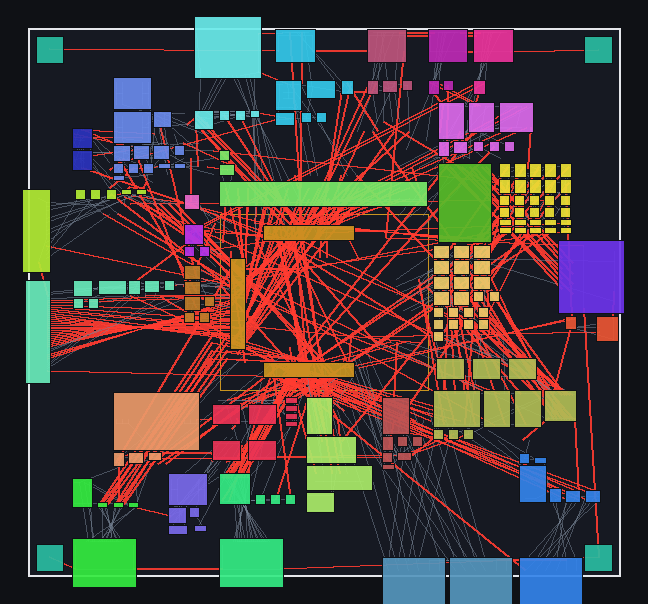
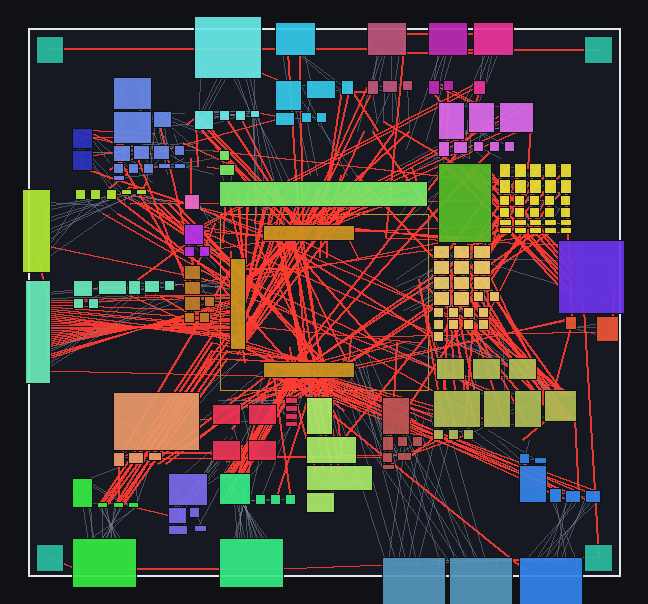
fix: USB-C mated INWARD — correct BOTH footprint mating-face AND 3D model + the gate
User caught (at an ANGLE — top-down hid it) that all 4 USB-C (J17001/J29001/J31001/
J32002) opened their cavity INBOARD. A full ultracode 2D-vs-3D angle audit of every
component confirmed the USB-C is the ONLY mismatch class; all other connectors +
components are correct. Two real defects, both fixed:

1. FOOTPRINT mating face: CONN_MATING_FACE["TYPE-C-31-M-12"] "-Y" -> "+Y". The 12 SMD
   signal contacts are the dense row at local -Y, so the mouth is OPPOSITE = +Y. With
   "-Y" the placer left the pads' mouth facing inboard on the N edge; "+Y" places the
   4 USB-C at rot 180 with the pad mouth toward the edge.
2. 3D MODEL: the EasyEDA .wrl was authored with its cavity 180 deg from its own
   footprint (cavity at the SMT-tail side). parts/TYPE-C-31-M-12/TYPE-C-31-M-12.kicad_mod
   model (rotate (xyz 0 0 0)) -> (xyz 0 0 180) aligns the model cavity with the
   footprint mouth; offset unchanged. ANGLED render confirms the cavity now faces
   off-board for all 4.

GATE fixes (LAW 4 — it MISSED this; make it correct, not softer):
 * connector_model_gate._tail_row_mouth: derive the tail row from EVERY pad (was
   _NUMERIC-only, which matched only the 4 shell legs and missed the 12 signal
   contacts named B8/A5/... — so it spuriously "agreed" with the wrong -Y). Now the
   densest y-row is the real contact row; mouth opposite -> correctly derives +Y.
 * bad-Z check: model rotate Z must be 0 OR 180 (axis-aligned; 180 = valid in-plane
[…]

diff --git a/schgen/verify/connector_model_gate.py b/schgen/verify/connector_model_gate.py
@@ -123,9 +123,16 @@ def _model_z(mod_path: Path) -> float | None:
 
 def _tail_row_mouth(mod_path: Path) -> str | None:
     """For a through-shell connector, the mouth direction implied by geometry:
-    the densest numeric-named pad row is the SMT contact tail row; the cable
-    enters OPPOSITE it. Returns '-Y'/'+Y' (page frame, +y DOWN) or None if the
-    pad layout is too symmetric to call (tail row at the footprint center)."""
+    the densest pad row is the SMT contact tail row; the cable enters OPPOSITE it.
+    Returns '-Y'/'+Y' (page frame, +y DOWN) or None if the pad layout is too
+    symmetric to call (tail row at the footprint center).
+
+    BUGFIX: previously this filtered to _NUMERIC pad names, which on a USB-C
+    (TYPE-C-31-M-12) matched ONLY the 4 shell THT legs ("1".."4") and MISSED the
+    12 signal contacts (named "B8","A5","A1B12",...). It therefore derived the tail
+    row from the legs and spuriously "agreed" with a WRONG CONN_MATING_FACE, so all
+    4 USB-C shipped opening INBOARD. Use EVERY pad: the densest y-row is the real
+    contact tail row regardless of naming, and the mouth is opposite it."""
     doc = sexpr.loads(mod_path.read_text())
     pads: list[tuple[str, float]] = []          # (name, y)
     all_y: list[float] = []
@@ -138,8 +145,7 @@ def _tail_row_mouth(mod_path: Path) -> str | None:
             continue
         y = float(at[2])
         all_y.append(y)
-        if _NUMERIC.fullmatch(name):
-            pads.append((name, y))
+        pads.append((name, y))     # ALL pads — the dense row is the contact tails
     if not pads or not all_y:
         return None
     rows = Counter(round(y, 1) for _, y in pads)
@@ -231,16 +237,26 @@ def check(model: PcbModel | None = None) -> ConnModelResult:
         mod_path = Path(mod_path)
         z = _model_z(mod_path)
 
-        # (1) non-zero model-Z flips the rendered opening vs the pads.
+        # (1) the model must be AXIS-ALIGNED with the footprint: rotate Z in
+        # {0, 180}. 0 = as-authored; 180 = a valid in-plane MOUTH FLIP that
+        # corrects a .wrl whose cavity was authored on the OPPOSITE end from the
+        # footprint's mating side (the EasyEDA TYPE-C-31-M-12 .wrl needed this —
+        # the old "must be 0" rule was a misdiagnosis that forbade the corrective
+        # 180 AND gave false confidence to a .wrl mis-authored at 0). A 90/270
+        # rotate makes the model PERPENDICULAR to the footprint (real error); a
+        # non-orthogonal rotate is conversion garbage. NOTE: the gate cannot render
+        # so it cannot fully confirm the model's opening — that is the render's job
+        # (LAW 5/6); the geometry cross-check (2) below confirms the FOOTPRINT pads.
         z_ok = True
         if z is None:
             res.missing_model.append(f"{ref} {mpn}: no (model ...rotate) node")
-        elif round(z) % 360 != 0:
+        elif round(z) % 180 != 0:
             z_ok = False
             res.bad_z.append(
                 f"{ref} {mpn} (value={value}): model rotate Z={z:g} deg "
-                f"(must be 0 mod 360) — rendered opening is flipped vs the "
-                f"footprint pads; zero the (model ...(rotate (xyz 0 0 Z))) node")
+                f"(must be 0 or 180 — axis-aligned with the footprint; 90/270 is "
+                f"perpendicular, non-orthogonal is garbage) — fix the "
+                f"(model ...(rotate (xyz 0 0 Z))) node")
         res.models.append((ref, mpn, value, z, z_ok))
 
         # (2) geometry cross-check for the through-shell connectors only.

diff --git a/schgen/tests/test_connector_model_gate.py b/schgen/tests/test_connector_model_gate.py
@@ -96,13 +96,22 @@ def test_zero_model_z_passes(tmp_path):
     assert not res.bad_z
 
 
-@pytest.mark.parametrize("z", [180.0, 90.0, -90.0, 270.0])
-def test_mutant_nonzero_model_z_fails(tmp_path, z):
-    """A non-zero model-Z (the USB-C bug, and any other 90-step flip) MUST fail —
-    it spins the rendered opening relative to the pads."""
+@pytest.mark.parametrize("z", [90.0, -90.0, 270.0, 45.0])
+def test_mutant_perpendicular_or_garbage_model_z_fails(tmp_path, z):
+    """A 90/270 model-Z makes the model PERPENDICULAR to its footprint, and a
+    non-orthogonal value is conversion garbage — both MUST fail."""
     res = cmg.check(_model_with(_synth_inst(tmp_path, "TF-01A", z)))
     assert not res.ok, f"model-Z={z} must FAIL the gate"
     assert any("J1" in b and "TF-01A" in b for b in res.bad_z), res.summary()
+
+
+@pytest.mark.parametrize("z", [180.0, -180.0])
+def test_axis_aligned_180_model_z_passes(tmp_path, z):
+    """Model-Z = 180 is AXIS-ALIGNED with the footprint (a valid in-plane MOUTH
+    FLIP that corrects a .wrl authored with its cavity on the opposite end — the
+    real TYPE-C-31-M-12 needs exactly this). It must NOT be flagged as bad-Z."""
+    res = cmg.check(_model_with(_synth_inst(tmp_path, "TF-01A", z)))
+    assert not res.bad_z, res.summary()
 
 
 def test_model_z_360_is_zero_mod_360(tmp_path):
@@ -119,9 +128,11 @@ def test_mutant_flipped_mating_face_geom_conflict(monkeypatch, tmp_path):
     contradicts the real pad geometry. The geometry cross-check MUST fail even
     though model-Z is 0 — this catches a hand-edited CONN_MATING_FACE typo that
     the Z check cannot see."""
-    # USB-C real geometry: tail row at +Y -> mouth -Y. Declare +Y to conflict.
+    # USB-C real geometry: the 12 dense SMD signal contacts are at -Y, so the
+    # mouth is OPPOSITE = +Y (the correct shipped value). Declare -Y to conflict
+    # (that wrong value is exactly what faced the mouth inboard before the fix).
     bad_face = dict(pcb.CONN_MATING_FACE)
-    bad_face["TYPE-C-31-M-12"] = "+Y"
+    bad_face["TYPE-C-31-M-12"] = "-Y"
     monkeypatch.setattr(cmg, "CONN_MATING_FACE", bad_face)
 
     real_mod = pcb.resolve_mod("TYPE-C-31-M-12:TYPE-C-31-M-12")

diff --git a/schgen/generate/pcb.py b/schgen/generate/pcb.py
@@ -432,7 +432,12 @@ INTERIOR_ZONE_BAND_TARGET = 32.0 # re-flow/rotate an interior zone to <= this he
 # asymmetry + datasheet). KiCad's page frame is +y DOWN, so -Y is toward the
 # board top (N edge) and +Y toward the bottom (S edge).
 CONN_MATING_FACE: dict[str, str] = {
-    "TYPE-C-31-M-12":  "-Y",   # USB-C receptacle mouth
+    "TYPE-C-31-M-12":  "+Y",   # USB-C receptacle: mouth is OPPOSITE the 12 SMT
+                               # signal-tail row (tails at local -Y; the hollow
+                               # shell mouth +Y) — same rule as HDMI/RJ45. Was "-Y"
+                               # which placed all 4 USB-C at rot 0 with the mouth
+                               # facing INBOARD on the N edge (user caught it; render
+                               # + .wrl end-cavity test (+Y 582 verts vs -Y 48) confirm).
     "HDMI-019S":       "+Y",   # HDMI receptacle mouth (plug enters OPPOSITE the
                                # SMT contact row at -Y; verified from footprint
                                # geometry — was -Y, faced inward in the render)

diff --git a/schgen/tests/test_placement_mech.py b/schgen/tests/test_placement_mech.py
@@ -120,8 +120,10 @@ def test_mutant_connector_inward_facing_fails():
     (you cannot insert the cable). The gate MUST fail even though it is on-edge."""
     model = _passing_model()
     j = next(i for i in model.insts if i.ref == "J1")
-    # rot 180 turns the -Y mouth to +Y (inward) while it still sits at the top
-    j.rotation = 180.0
+    # flip 180 FROM the correctly-seated rotation so the mouth turns INWARD,
+    # whatever the seated value is (USB-C now seats at 180, so a hard-coded 180
+    # would be a no-op — flip relative to the seat).
+    j.rotation = (j.rotation + 180.0) % 360.0
     res = pm.check(model)
     assert not res.ok, "inward-facing edge connector must FAIL the gate"
     assert any("J1" in b and "inward" in b for b in res.bad_connectors), \
